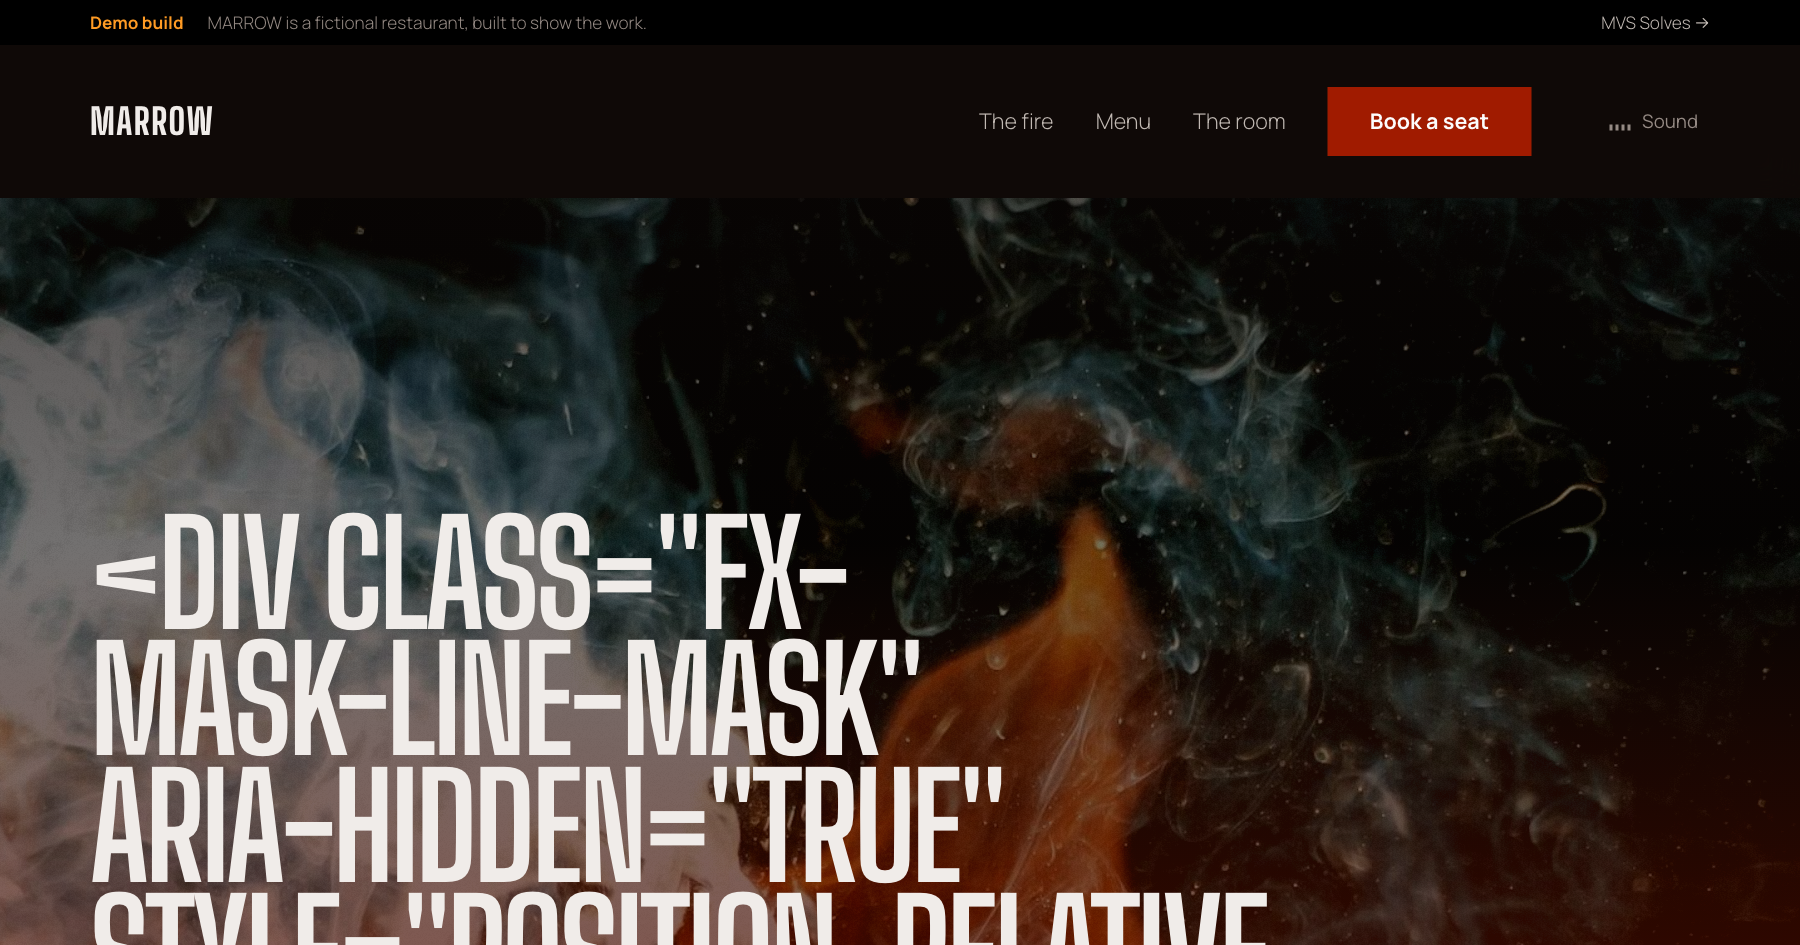
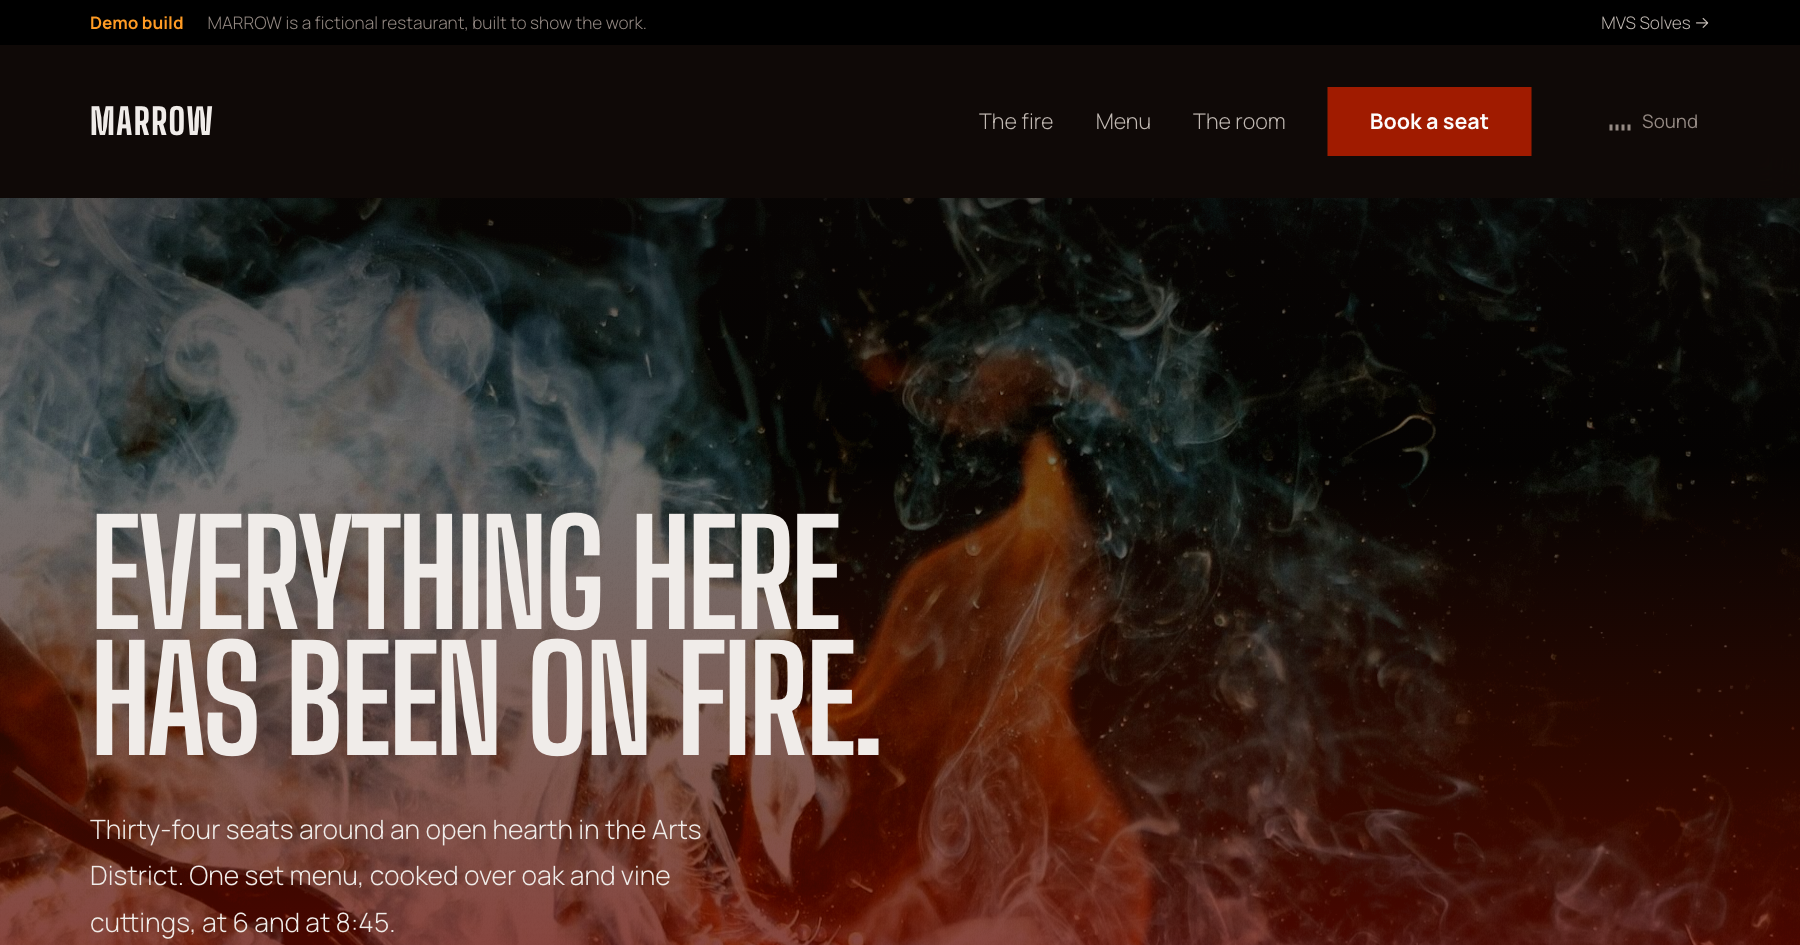
Fix Marrow printing SplitText's own markup on the page
Two systems were writing the same headings. The original scramble captured
innerHTML, rewrote it as textContent, then restored it — written before GSAP
existed here, when it was the only thing touching that element. SplitText now
wraps those same headings in line masks first, so the scramble was capturing
GSAP's generated markup and scrambling that instead of the words.

The heading rendered, on the live page:

  <DIV CLASS="FX-MASK-LINE-MASK" ARIA-HIDDEN="TRUE" STYLE="POSITION: RELATI...

Rebuilt so the effect is driven from inside the split rather than against it:
SplitText produces chars and masked lines, the timeline rises the lines and
resolves the characters left to right, and onComplete restores every final
glyph so a killed tween can never strand a substitution.

Two details that matter:
  - each character's box is measured and locked before any swapping starts.
    Substituting a W for an I reflows the line otherwise, and the heading
    jitters for the whole effect.
  - the measurement waits on document.fonts.ready. Widths taken before the
    webfont lands are the fallback face's, so the lock would be wrong.

Verified: no markup leak in either scrambled element, the effect animates and
resolves, console clean, and the full audit and motion passes still pass.

diff --git a/marrow/js/marrow.js b/marrow/js/marrow.js
@@ -16,48 +16,6 @@
 document.documentElement.classList.add('js');
 var REDUCE = matchMedia('(prefers-reduced-motion: reduce)').matches;
 
-/* ─────────────────────────────────────────────── scramble reveal */
-(function () {
-  'use strict';
-  if (REDUCE || !('IntersectionObserver' in window)) return;
-  var GLYPH = 'ABCDEFGHIJKLMNOPQRSTUVWXYZ#%&*+=/\\';
-
-  function scramble(el) {
-    var html = el.innerHTML;
-    // work per text line so a <br> survives the animation intact
-    var lines = html.split(/<br\s*\/?>/i).map(function (s) { return s.trim(); });
-    var target = lines.join('\n');
-    var frame = 0, total = target.length + 22;
-
-    function step() {
-      var out = '';
-      for (var i = 0; i < target.length; i++) {
-        var c = target[i];
-        if (c === '\n' || c === ' ') { out += c; continue; }
-        if (i < frame - 14) out += c;
-        else if (i < frame) out += GLYPH[(Math.floor(frame * 7 + i * 13)) % GLYPH.length];
-        else out += ' ';
-      }
-      el.textContent = out;
-      frame += 1.6;
-      if (frame < total) requestAnimationFrame(step);
-      else { el.innerHTML = html; }
-    }
-    el.classList.add('scr');
-    step();
-  }
-
-  var io = new IntersectionObserver(function (es) {
-    es.forEach(function (e) {
-      if (!e.isIntersecting) return;
-      io.unobserve(e.target);
-      scramble(e.target);
-    });
-  }, { rootMargin: '0px 0px -18% 0px' });
-
-  [].forEach.call(document.querySelectorAll('[data-scramble]'), function (el) { io.observe(el); });
-})();
-
 /* ────────────────────────────────────────────────── ember drift */
 (function () {
   'use strict';
@@ -268,19 +226,60 @@ var REDUCE = matchMedia('(prefers-reduced-motion: reduce)').matches;
   FX.run();
   if (layer) layer.reveal(2.4);
 
-  if (!soft) {
-    var h1 = FX.split(document.querySelector('.hero-h'));
-    if (h1) g.from(h1.lines, { yPercent: 120, duration: 1.6, ease: EASE, stagger: 0.13, delay: 0.2 });
-    g.from('.hero-p, .hero .btn, .hero-f', { opacity: 0, y: 30, duration: 1.2, ease: EASE, stagger: 0.12, delay: 0.7 });
+  /* ── the scramble, rebuilt on top of SplitText ──────────────────
+     The original version rewrote innerHTML on the same headings GSAP had
+     already wrapped in line masks, so it ended up scrambling SplitText's
+     own markup and printing it on the page. This drives the glyphs from
+     inside the split instead, so the two cooperate.
+
+     Each character's box is measured and locked before any swapping
+     starts — otherwise substituting a W for an I reflows the whole line
+     and the heading jitters for the length of the effect. */
+  var GLYPH = 'ABCDEFGHIJKLMNOPQRSTUVWXYZ0123456789#%&*+=/\\';
+
+  function burn(el, opts) {
+    opts = opts || {};
+    var sp = new SplitText(el, { type: 'chars,lines', mask: 'lines', linesClass: 'fx-line' });
+    var chars = sp.chars;
+    var finals = chars.map(function (c) { return c.textContent; });
+
+    chars.forEach(function (c) {
+      var w = c.getBoundingClientRect().width;
+      if (w > 0) { c.style.display = 'inline-block'; c.style.width = w + 'px'; }
+    });
+
+    var o = { i: 0 };
+    var tl = g.timeline(opts.st ? { scrollTrigger: opts.st } : { delay: opts.delay || 0 });
+    tl.from(sp.lines, { yPercent: 120, duration: 1.5, ease: EASE, stagger: 0.13 }, 0);
+    tl.to(o, {
+      i: chars.length, duration: 1.15, ease: 'none',
+      onUpdate: function () {
+        var f = o.i | 0;
+        for (var k = 0; k < chars.length; k++) {
+          if (finals[k] === ' ') continue;
+          chars[k].textContent = k < f ? finals[k] : GLYPH[(k * 7 + f * 5) % GLYPH.length];
+        }
+      },
+      // never leave a glyph substituted, whatever happens to the tween
+      onComplete: function () { chars.forEach(function (c, k) { c.textContent = finals[k]; }); }
+    }, 0.15);
+    return tl;
   }
 
-  /* the quiet screen holds, then releases — the pacing is the design */
-  var q = document.querySelector('.quiet p:first-child');
-  if (q) {
-    var qs = FX.split(q);
-    if (qs) g.from(qs.lines, { yPercent: 120, duration: 1.5, ease: EASE, stagger: 0.12,
-      scrollTrigger: { trigger: q, start: 'top 76%' } });
-  }
+  /* measured widths are meaningless until the webfont has actually landed */
+  var ready = document.fonts && document.fonts.ready ? document.fonts.ready : Promise.resolve();
+  ready.then(function () {
+    var hero = document.querySelector('.hero-h');
+    if (hero) burn(hero, { delay: 0.2 });
+
+    /* the quiet screen holds, then releases — the pacing is the design */
+    var q = document.querySelector('.quiet p:first-child');
+    if (q) burn(q, { st: { trigger: q, start: 'top 76%' } });
+
+    ST.refresh();
+  });
+
+  g.from('.hero-p, .hero .btn, .hero-f', { opacity: 0, y: 30, duration: 1.2, ease: EASE, stagger: 0.12, delay: 0.7 });
 
   g.utils.toArray('.sec-h').forEach(function (h) {
     var s = FX.split(h);

diff --git a/marrow/index.html b/marrow/index.html
@@ -235,6 +235,6 @@
 <script src="../lib/Flip.min.js"></script>
 <script src="../lib/lenis.min.js"></script>
 <script src="../lib/fx.js?v=5"></script>
-<script src="js/marrow.js?v=2"></script>
+<script src="js/marrow.js?v=3"></script>
 </body>
 </html>
